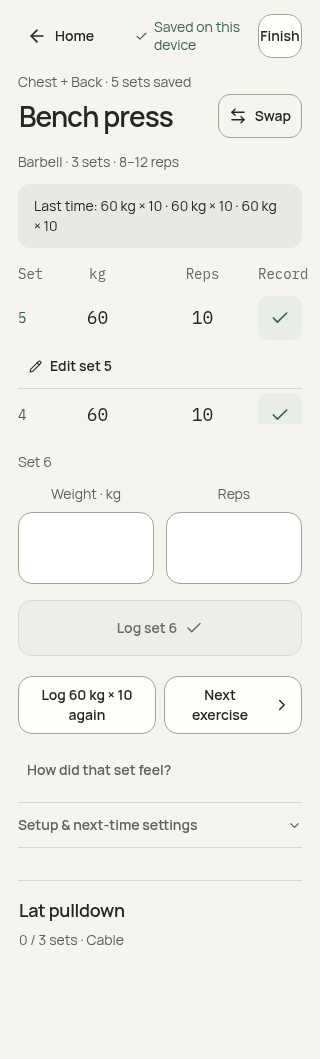
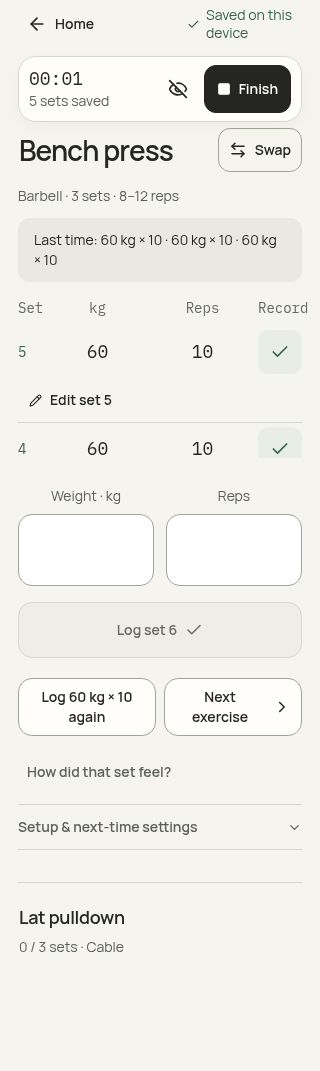
Add a persistent session card with a collapsible clock and clear Finish action

diff --git a/tests/e2e/session-card.spec.ts b/tests/e2e/session-card.spec.ts
@@ -1,0 +1,87 @@
+import { test, expect } from "@playwright/test";
+
+test("persistent session card: elapsed clock, compact preference, scrolling and deliberate finish", async ({
+  page,
+}) => {
+  await page.clock.install({ time: new Date("2026-10-18T10:00:00Z") });
+  await page.setViewportSize({ width: 390, height: 844 });
+  await page.goto("/");
+  await page.evaluate(async () => {
+    const store = await import("/frontend/src/personalStore.ts"),
+      logic = await import("/frontend/src/personalLogic.ts");
+    const state = store.defaultState();
+    state.current = logic.generatePlan(["chest", "back"], 4, state.settings);
+    state.current.startedAt = new Date(Date.now() - 125000).toISOString();
+    await store.saveState(state, 0);
+  });
+  await page.reload();
+  const card = page.getByRole("region", { name: "Active workout session" });
+  const timer = page.getByLabel("Elapsed session time", { exact: true });
+  await expect(timer).toHaveText("02:05");
+  const before = await page.evaluate(async () =>
+    (await import("/frontend/src/personalStore.ts")).readState(),
+  );
+  await page.clock.runFor(2100);
+  await expect(timer).toHaveText("02:07");
+  await page
+    .getByRole("button", { name: "Hide elapsed time", exact: true })
+    .click();
+  await expect(timer).toHaveCount(0);
+  await expect(
+    page.getByRole("button", { name: "Finish", exact: true }),
+  ).toBeVisible();
+  await page.reload();
+  await expect(
+    page.getByRole("button", { name: "Show elapsed time", exact: true }),
+  ).toBeVisible();
+  const after = await page.evaluate(async () =>
+    (await import("/frontend/src/personalStore.ts")).readState(),
+  );
+  expect(after).toEqual(before);
+  await page
+    .getByRole("button", { name: "Show elapsed time", exact: true })
+    .click();
+  await expect(timer).toHaveText("02:07");
+  for (const width of [320, 390]) {
+    await page.setViewportSize({ width, height: 740 });
+    await page.evaluate(() => scrollTo(0, document.body.scrollHeight));
+    await expect(card).toBeInViewport();
+    const box = await card.boundingBox();
+    expect(box!.y).toBeGreaterThanOrEqual(0);
+    expect(box!.y).toBeLessThan(20);
+    expect(
+      await page.evaluate(
+        () => document.documentElement.scrollWidth > innerWidth,
+      ),
+    ).toBe(false);
+    await page.getByRole("button", { name: "Finish", exact: true }).click();
+    await expect(
+      page.getByRole("region", { name: "Finish workout", exact: true }),
+    ).toBeInViewport();
+    await expect(
+      page.getByRole("region", { name: "Finish workout", exact: true }),
+    ).toBeFocused();
+    await page
+      .getByRole("button", { name: "Keep logging", exact: true })
+      .click();
+    await expect(
+      page.getByRole("button", { name: "Finish", exact: true }),
+    ).toBeFocused();
+  }
+});
+
+test("session time shows elapsed hours, clamps invalid/future dates and updates without storage writes", async ({
+  page,
+}) => {
+  await page.goto("/");
+  const values = await page.evaluate(async () => {
+    const { sessionClock } = await import("/frontend/src/SessionCard.tsx");
+    const now = Date.parse("2026-10-18T12:00:00Z");
+    return [
+      sessionClock("2026-10-18T10:55:28Z", now).text,
+      sessionClock("bad", now).text,
+      sessionClock("2026-10-19T12:00:00Z", now).text,
+    ];
+  });
+  expect(values).toEqual(["1:04:32", "00:00", "00:00"]);
+});

diff --git a/frontend/src/SessionCard.tsx b/frontend/src/SessionCard.tsx
@@ -1,0 +1,91 @@
+import { forwardRef, useEffect, useState } from "react";
+import { Clock3, EyeOff, Square } from "lucide-react";
+import { DSButton } from "./design-system";
+const preferenceKey = "gym-notebook:hide-session-time";
+export function sessionClock(startedAt: string, now: number) {
+  const start = Date.parse(startedAt);
+  const seconds = Number.isFinite(start)
+    ? Math.max(0, Math.floor((now - start) / 1000))
+    : 0;
+  const hours = Math.floor(seconds / 3600);
+  const minutes = Math.floor((seconds % 3600) / 60);
+  return {
+    seconds,
+    text: `${hours ? `${hours}:` : ""}${String(minutes).padStart(2, "0")}:${String(seconds % 60).padStart(2, "0")}`,
+  };
+}
+export default forwardRef<
+  HTMLButtonElement,
+  { startedAt: string; savedSets: number; onFinish: () => void }
+>(function SessionCard({ startedAt, savedSets, onFinish }, ref) {
+  const [now, setNow] = useState(Date.now);
+  const [hidden, setHidden] = useState(() => {
+    try {
+      return localStorage.getItem(preferenceKey) === "true";
+    } catch {
+      return false;
+    }
+  });
+  useEffect(() => {
+    const refresh = () => setNow(Date.now());
+    const timer = window.setInterval(refresh, 1000);
+    document.addEventListener("visibilitychange", refresh);
+    return () => {
+      clearInterval(timer);
+      document.removeEventListener("visibilitychange", refresh);
+    };
+  }, []);
+  function toggle() {
+    const next = !hidden;
+    setHidden(next);
+    try {
+      localStorage.setItem(preferenceKey, String(next));
+    } catch {
+      /* A preference failure never blocks workout logging. */
+    }
+  }
+  const elapsed = sessionClock(startedAt, now);
+  return (
+    <section
+      className={`nb-session-card ${hidden ? "is-compact" : ""}`}
+      aria-label="Active workout session"
+    >
+      {!hidden && (
+        <div
+          className="nb-session-clock"
+          title="Elapsed since starting this session, including time away"
+        >
+          <time
+            aria-label="Elapsed session time"
+            dateTime={`PT${elapsed.seconds}S`}
+          >
+            {elapsed.text}
+          </time>
+          <span>
+            {savedSets} {savedSets === 1 ? "set" : "sets"} saved
+          </span>
+        </div>
+      )}
+      <div className="nb-session-card-actions">
+        <DSButton
+          variant="text"
+          className="nb-session-toggle"
+          aria-label={hidden ? "Show elapsed time" : "Hide elapsed time"}
+          aria-expanded={!hidden}
+          onClick={toggle}
+        >
+          {hidden ? <Clock3 size={20} /> : <EyeOff size={20} />}
+        </DSButton>
+        <DSButton
+          ref={ref}
+          className="nb-session-finish"
+          variant="primary"
+          onClick={onFinish}
+          startIcon={<Square size={14} fill="currentColor" />}
+        >
+          Finish
+        </DSButton>
+      </div>
+    </section>
+  );
+});

diff --git a/frontend/src/training-home.css b/frontend/src/training-home.css
@@ -923,3 +923,110 @@
     line-height: 18px;
   }
 }
+/* Persistent session ownership; the logging action keeps its own visual priority. */
+.nb-session-card {
+  position: sticky;
+  top: calc(env(safe-area-inset-top) + 8px);
+  z-index: 12;
+  width: 100%;
+  max-width: 620px;
+  margin: 0 auto 20px;
+  display: flex;
+  align-items: center;
+  justify-content: space-between;
+  gap: 12px;
+  padding: 12px;
+  background: #fffdf8;
+  border: 1px solid var(--ds-rule);
+  border-radius: 18px;
+  box-shadow: 0 4px 18px #2526240a;
+}
+.nb-session-clock {
+  display: grid;
+  gap: 2px;
+  min-width: 0;
+}
+.nb-session-clock time {
+  font: 400 28px/34px var(--ds-mono);
+  color: var(--ds-ink);
+  font-variant-numeric: tabular-nums;
+}
+.nb-session-clock > span {
+  color: var(--ds-secondary);
+  font-size: 14px;
+  line-height: 20px;
+}
+.nb-session-card-actions {
+  display: flex;
+  align-items: center;
+  gap: 8px;
+}
+.personal-app .nb-session-toggle {
+  min-width: 44px;
+  width: 44px;
+  height: 44px;
+  padding: 0;
+  border-radius: 50%;
+}
+.personal-app .nb-session-finish.ds-button {
+  min-height: 48px;
+  padding: 12px 16px;
+  background: #252624;
+  border-color: #252624;
+  color: #fffdf8;
+  border-radius: 12px;
+}
+.nb-session-card.is-compact {
+  padding: 8px 12px;
+}
+.nb-session-card.is-compact .nb-session-card-actions {
+  width: 100%;
+  justify-content: space-between;
+}
+.two-workout .nb-exercise-card.is-collapsed .nb-exercise-top {
+  width: 100%;
+}
+.two-workout .nb-exercise-card.is-collapsed .nb-exercise-heading {
+  width: 100%;
+  min-height: 68px;
+}
+#finish-confirmation {
+  scroll-margin-top: calc(env(safe-area-inset-top) + 112px);
+}
+@media (max-width: 350px) {
+  .nb-session-card {
+    gap: 8px;
+    padding: 10px;
+  }
+  .personal-app .nb-session-finish.ds-button {
+    padding: 12px;
+  }
+  .nb-session-card-actions {
+    gap: 4px;
+  }
+}
+/* Keep session context subordinate to the exercise, and avoid repeating the set number above Log. */
+.two-workout.is-session .personal-header {
+  min-height: 48px;
+  padding-top: 0;
+  padding-bottom: 0;
+}
+.nb-session-card {
+  padding: 8px 12px;
+  margin-bottom: 4px;
+}
+.nb-session-clock {
+  gap: 0;
+}
+.nb-session-clock time {
+  font-size: 18px;
+  line-height: 24px;
+}
+.two-workout .ds-set-entry .ds-entry-ordinal {
+  display: none;
+}
+@media (max-width: 350px) {
+  .nb-session-card {
+    padding: 8px 10px;
+  }
+}

diff --git a/frontend/src/PersonalApp.tsx b/frontend/src/PersonalApp.tsx
@@ -29,6 +29,7 @@ import {
 import "./personal.css";
 import MuscleGlyph from "./MuscleGlyph";
 import TrainingHome from "./TrainingHome";
+import SessionCard from "./SessionCard";
 import { effortLabel, groupInsights } from "./personalInsights";
 import {
   DSButton,
@@ -870,27 +871,26 @@ export default function PersonalApp() {
         </div>
         <div className="two-header-actions">
           <DSStatus state={status} className={`personal-status ${status}`} />
-          {workout && tab === "today" ? (
-            <DSButton
-              ref={finishTrigger}
-              variant="secondary"
-              className="nb-header-finish"
-              onClick={() => setFinishing(true)}
-            >
-              Finish
-            </DSButton>
-          ) : (
+          {!(workout && tab === "today") && (
             <DSButton
               variant="text"
               aria-label="Settings and backup"
               onClick={() => openOverlay("backup")}
             >
-              <Settings size={20} />{" "}
+              <Settings size={20} />
               <span className="visually-hidden">Settings</span>
             </DSButton>
           )}
         </div>
       </header>
+      {workout && tab === "today" && (
+        <SessionCard
+          ref={finishTrigger}
+          startedAt={workout.startedAt}
+          savedSets={recordedCount}
+          onFinish={() => setFinishing(true)}
+        />
+      )}
       <main className="personal-main">
         {error && (
           <DSInlineNotice
@@ -1181,13 +1181,6 @@ export default function PersonalApp() {
             )}
             {workout && exercise && (
               <>
-                <p className="nb-session-context">
-                  {workout.groups
-                    .map((g) => groups.find((x) => x.id === g)?.name)
-                    .join(" + ")}
-                  <span aria-hidden="true"> · </span>
-                  {recordedCount} {recordedCount === 1 ? "set" : "sets"} saved
-                </p>
                 <div className="personal-exercise-stack">
                   {[
                     exercise,

diff --git a/docs/SESSION-CARD.md b/docs/SESSION-CARD.md
@@ -1,0 +1,11 @@
+# Persistent session control
+
+Journey: a lifter starts or resumes a workout, identifies the active exercise, logs sets, occasionally checks session elapsed time and ends deliberately. They can scroll through a long session without losing Finish. If the timer distracts them, Hide elapsed time collapses that information while Finish remains strong. Show elapsed time restores it, and the preference survives reload when browser preference storage is available. Finishing still opens the existing confirmation; Keep logging restores focus to the same Finish control. No automatic completion or new workout data schema.
+
+Hierarchy: exact exercise and Log are the task focus. A small sticky white session card owns duration and Finish; Finish is filled charcoal, distinct from the vermilion Log action. Saved status remains visible in the top navigation. Secondary exercise setup remains collapsed. Inactive movements use a larger tappable card instead of another action label; accessible button names and focus remain native.
+
+Elapsed time is wall-clock time since the stored workout startedAt, including time away/background. It is not measured active lifting time. It is derived on render/tick, does not write per second, and catches up on page visibility. Hiding the timer never pauses the session. Invalid/future timestamps clamp to zero; hours display correctly. The card respects safe area and finish confirmation scroll offset. Test expanded/collapsed, reload, scrolling, long sessions, tick, confirmation recovery and unchanged actuals.
+
+Delivered: `SessionCard.tsx` is a reusable sticky session control. Expanded state shows a subordinate18px elapsed clock and saved-set count, a44px hide control and a48px charcoal Finish action. Compact state keeps only a restore-clock icon and Finish. The redundant draft ordinal is visually removed because Log set n already names the set; numeric fields retain full accessible labels. Timing derives from saved startedAt, with no per-second IndexedDB writes. The local preference is a separate best-effort UI setting.
+
+Verification: production build passes. Five targeted browser tests pass (timer tick, hour/invalid/future formatting, UI preference reload, unchanged workout state, sticky position, Finish/Keep logging focus, full workout, typography and partial/empty finish). The production Pages-path offline test also passes. The real-app capture script passes expanded-card logging and sixth-draft navigation at320/390 widths; no horizontal overflow, external requests or page errors. At320×740, the sixth-draft Log occupies y602–658 and Next y678–736. Expanded/compact captures are `design/production-redesign/workout.png` and `workout-compact.png`. Synthetic data in isolated browser contexts; no real gym/phone trial claimed.

diff --git a/docs/SPRINT-1-BOARD.md b/docs/SPRINT-1-BOARD.md
@@ -70,3 +70,7 @@ The user clarified that Teenage Engineering was a reference for clean visual com
 ## Production usability / visual redesign delivery
 
 The dot direction is now integrated into the actual React logger, following a fresh-context synthetic browser evaluation, UX/graphic handoffs, a screenshot-fed image-generation exploration and a second real-app walkthrough. `PROFESSIONAL-REDESIGN-SPRINT.md` tracks completed work; `REDESIGN-DELIVERY.md` records actual test evidence and limitations. This completes the visual/composition portion of S1-06 and regression for this change; it does not mark the separate saved-routine/domain-model stories as implemented.
+
+## Session hierarchy refinement
+
+Completed persistent session card with a strong Finish action, wall-clock elapsed time derived from saved start, and remembered hide/show preference. Secondary setup remains collapsed; inactive exercise tap targets are larger. `SESSION-CARD.md` records the full journey and verification. Workout data schema and saving semantics are unchanged.
